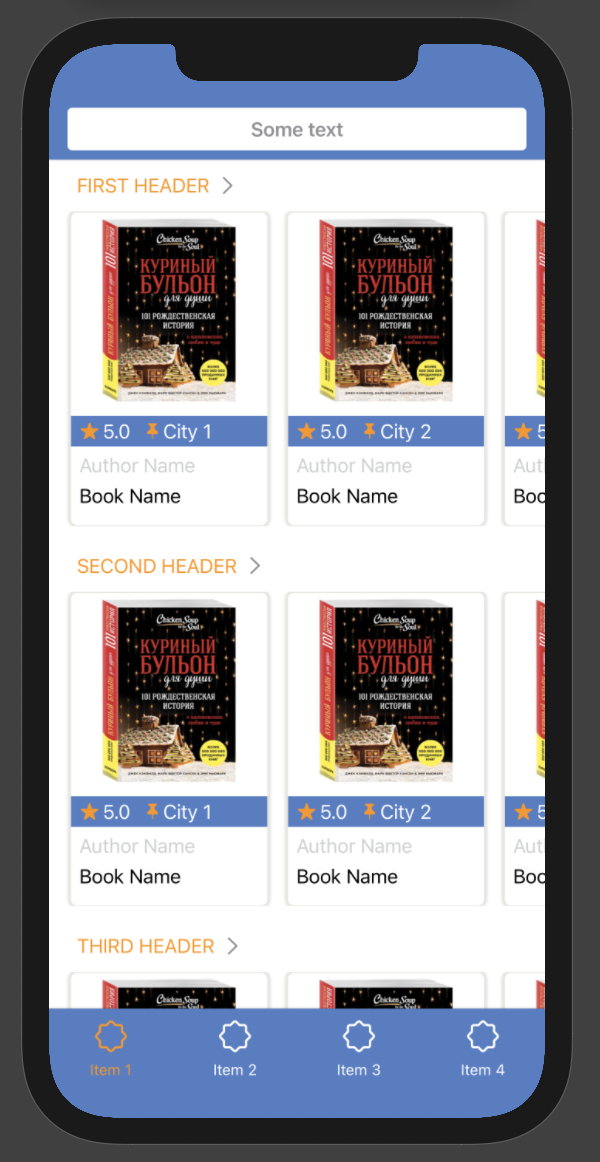
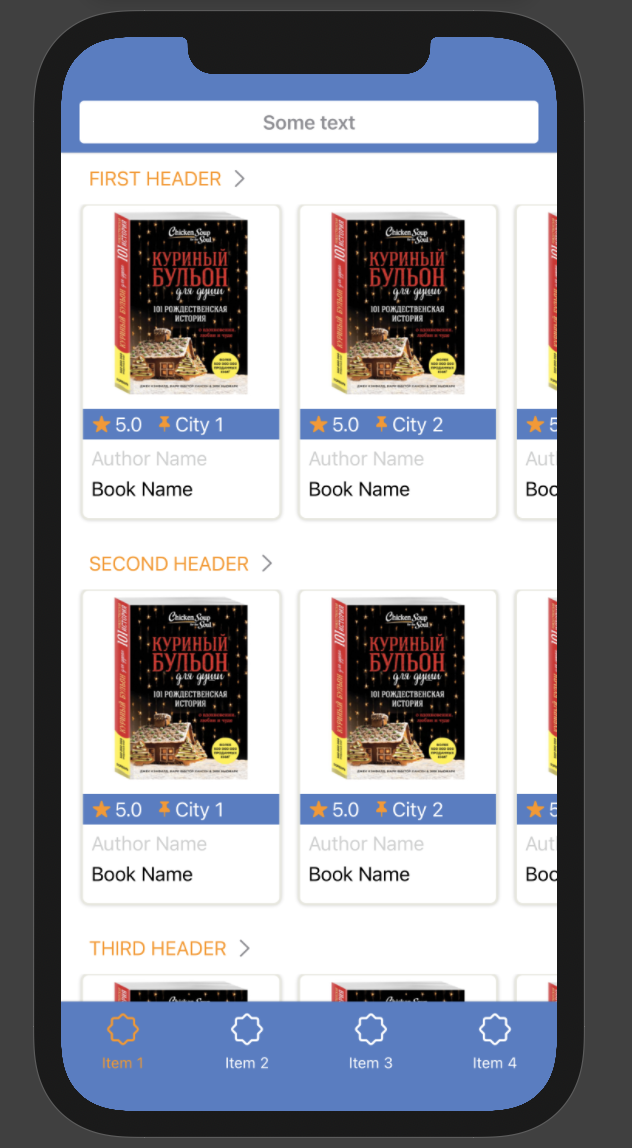
Main Screen: line height fixed

Changed region(s): [[0.03, 0.0, 0.96, 1.0], [0.42, 0.4878, 0.45, 0.5183]]

diff --git a/BookExchange/Views/CustomTabView.swift b/BookExchange/Views/CustomTabView.swift
@@ -43,7 +43,7 @@ struct CustomTabView: View {
                 switch viewRouter.currentPage {
                 case .item1:
                     ScrollView {
-                        VStack(spacing: 12) {
+                        VStack(spacing: 8) {
                             BookListSection(header: "First header")
                             BookListSection(header: "Second header")
                             BookListSection(header: "Third header")

diff --git a/BookExchange/Views/BookListSection.swift b/BookExchange/Views/BookListSection.swift
@@ -31,6 +31,7 @@ struct BookListSection: View {
                     BookListIcon(city: "City 4")
                     Color.clear.frame(width: 2)
                 }
+                .padding(.bottom, 8)
             }
         }
     }

diff --git a/README.md b/README.md
@@ -1,4 +1,4 @@
 #  HSEBooks iOS Application
 Main Screen Image:
 
-![Main Screen Image](https://git.infostrategic.com/hsebooks/ios-application/-/raw/main/Assets/Images/MainScreen.png?inline=false)
+![Main Screen Image](https://git.infostrategic.com/hsebooks/ios-application/-/raw/main/Assets/Images/MainScreen.png?inline=false =250x)
